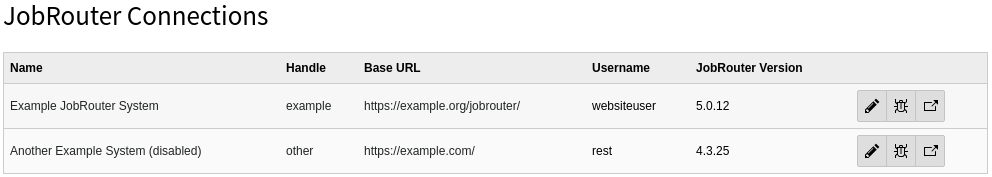
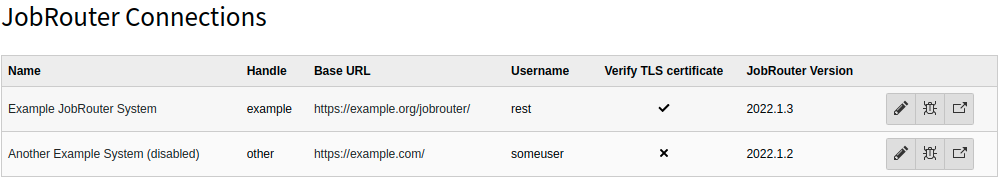
[FEATURE] Add configuration of connection options
Resolves: #8

diff --git a/Resources/Private/Templates/Backend/List.html b/Resources/Private/Templates/Backend/List.html
@@ -47,6 +47,7 @@
                     <th scope="col"><f:translate key="LLL:EXT:jobrouter_connector/Resources/Private/Language/Database.xlf:tx_jobrouterconnector_domain_model_connection.handle"/></th>
                     <th scope="col"><f:translate key="LLL:EXT:jobrouter_connector/Resources/Private/Language/Database.xlf:tx_jobrouterconnector_domain_model_connection.base_url"/></th>
                     <th scope="col"><f:translate key="LLL:EXT:jobrouter_connector/Resources/Private/Language/Database.xlf:tx_jobrouterconnector_domain_model_connection.username"/></th>
+                    <th scope="col" class="text-center"><f:translate key="LLL:EXT:jobrouter_connector/Resources/Private/Language/Database.xlf:tx_jobrouterconnector_domain_model_connection.verify"/></th>
                     <th scope="col"><f:translate key="LLL:EXT:jobrouter_connector/Resources/Private/Language/Database.xlf:tx_jobrouterconnector_domain_model_connection.jobrouter_version"/></th>
                     <th scope="col"></th>
                 </tr>
@@ -65,6 +66,12 @@
                         <td id="jobrouter-connection-list-handle-{connection.uid}">{connection.handle}</td>
                         <td id="jobrouter-connection-list-baseurl-{connection.uid}"><f:link.external uri="{connection.baseUrl}" target="_blank" title="{f:translate(key: 'LLL:EXT:jobrouter_connector/Resources/Private/Language/BackendModule.xlf:action.open_jobrouter_system')}" rel="noreferrer">{connection.baseUrl}</f:link.external></td>
                         <td id="jobrouter-connection-list-username-{connection.uid}">{connection.username}</td>
+                        <td id="jobrouter-connection-list-verify-{connection.uid}" class="text-center">
+                            <f:if condition="{connection.verify}">
+                                <f:then><core:icon identifier="actions-check"/></f:then>
+                                <f:else><core:icon identifier="actions-close"/></f:else>
+                            </f:if>
+                        </td>
                         <td id="jobrouter-connection-list-version-{connection.uid}">{connection.jobrouterVersion}</td>
                         <td>
                             <div class="btn-group">

diff --git a/Configuration/TCA/tx_jobrouterconnector_domain_model_connection.php b/Configuration/TCA/tx_jobrouterconnector_domain_model_connection.php
@@ -84,6 +84,48 @@ return [
                 'eval' => 'nospace,password,required,' . \Brotkrueml\JobRouterConnector\Evaluation\Password::class,
             ],
         ],
+        'timeout' => [
+            'label' => \Brotkrueml\JobRouterConnector\Extension::LANGUAGE_PATH_DATABASE . ':tx_jobrouterconnector_domain_model_connection.timeout',
+            'config' => [
+                'type' => 'input',
+                'size' => 5,
+                'eval' => 'trim,int',
+                'range' => [
+                    'lower' => 0,
+                    'upper' => 240,
+                ],
+                'default' => 0,
+                'slider' => [
+                    'step' => 10,
+                    'width' => 200,
+                ],
+            ],
+        ],
+        'verify' => [
+            'label' => \Brotkrueml\JobRouterConnector\Extension::LANGUAGE_PATH_DATABASE . ':tx_jobrouterconnector_domain_model_connection.verify',
+            'config' => [
+                'type' => 'check',
+                'renderType' => 'checkboxToggle',
+                'items' => [
+                    [
+                        0 => '',
+                        1 => '',
+                        'labelChecked' => 'Enabled',
+                        'labelUnchecked' => 'Disabled',
+                    ],
+                ],
+                'default' => 1,
+            ],
+        ],
+        'proxy' => [
+            'label' => \Brotkrueml\JobRouterConnector\Extension::LANGUAGE_PATH_DATABASE . ':tx_jobrouterconnector_domain_model_connection.proxy',
+            'config' => [
+                'type' => 'input',
+                'size' => 30,
+                'max' => 255,
+                'eval' => 'trim',
+            ],
+        ],
         'jobrouter_version' => [
             'label' => \Brotkrueml\JobRouterConnector\Extension::LANGUAGE_PATH_DATABASE . ':tx_jobrouterconnector_domain_model_connection.jobrouter_version',
             'description' => \Brotkrueml\JobRouterConnector\Extension::LANGUAGE_PATH_DATABASE . ':tx_jobrouterconnector_domain_model_connection.jobrouter_version.description',
@@ -108,6 +150,7 @@ return [
             'showitem' => '
                 name, handle, base_url,
                 --palette--;;credentials,
+                --palette--;;options,
                 --div--;' . \Brotkrueml\JobRouterConnector\Extension::LANGUAGE_PATH_DATABASE . ':tab.information,
                 jobrouter_version,
                 --div--;LLL:EXT:core/Resources/Private/Language/Form/locallang_tabs.xlf:access,
@@ -121,6 +164,10 @@ return [
         'credentials' => [
             'label' => \Brotkrueml\JobRouterConnector\Extension::LANGUAGE_PATH_DATABASE . ':palette.credentials',
             'showitem' => 'username, password',
+        ],
+        'options' => [
+            'label' => \Brotkrueml\JobRouterConnector\Extension::LANGUAGE_PATH_DATABASE . ':palette.options',
+            'showitem' => 'timeout, verify, --linebreak--, proxy',
         ],
     ],
 ];

diff --git a/Tests/Unit/Domain/Model/ConnectionTest.php b/Tests/Unit/Domain/Model/ConnectionTest.php
@@ -136,6 +136,72 @@ class ConnectionTest extends TestCase
     /**
      * @test
      */
+    public function initialTimeoutIsZero(): void
+    {
+        $actual = $this->subject->getTimeout();
+
+        self::assertSame(0, $actual);
+    }
+
+    /**
+     * @test
+     */
+    public function setAndGetTimeout(): void
+    {
+        $this->subject->setTimeout(42);
+
+        $actual = $this->subject->getTimeout();
+
+        self::assertSame(42, $actual);
+    }
+
+    /**
+     * @test
+     */
+    public function initialVerifyIsTrue(): void
+    {
+        $actual = $this->subject->isVerify();
+
+        self::assertTrue($actual);
+    }
+
+    /**
+     * @test
+     */
+    public function setAndIsVerify(): void
+    {
+        $this->subject->setVerify(false);
+
+        $actual = $this->subject->isVerify();
+
+        self::assertFalse($actual);
+    }
+
+    /**
+     * @test
+     */
+    public function initialProxyIsEmptyString(): void
+    {
+        $actual = $this->subject->getProxy();
+
+        self::assertSame('', $actual);
+    }
+
+    /**
+     * @test
+     */
+    public function setAndGetProxy(): void
+    {
+        $this->subject->setProxy('https://example.org/');
+
+        $actual = $this->subject->getProxy();
+
+        self::assertSame('https://example.org/', $actual);
+    }
+
+    /**
+     * @test
+     */
     public function initialDisabledIsFalse(): void
     {
         $actual = $this->subject->isDisabled();

diff --git a/Tests/Acceptance/Backend/ConnectionsModuleCest.php b/Tests/Acceptance/Backend/ConnectionsModuleCest.php
@@ -76,6 +76,24 @@ class ConnectionsModuleCest
         $I->canSee('some_connection_handle', '#jobrouter-connection-list-handle-1');
         $I->canSee('https://example.org/', '#jobrouter-connection-list-baseurl-1');
         $I->canSee('john.doe', '#jobrouter-connection-list-username-1');
+        $I->canSeeInSource('actions.svg#actions-check', '#jobrouter-connection-list-verify-1');
+    }
+
+    public function whenConnectionIsAvailableWithVerifySetToFalseItIsShownOnTheModulePage(BackendTester $I): void
+    {
+        $I->createJobRouterKey();
+        $I->importConnectionFixture('https://example.org/', 'secretPwd', 0);
+
+        $I->click(self::CONNECTOR_MODULE_SELECTOR);
+        $I->switchToContentFrame();
+        $I->canSee('JobRouter Connections', 'h1');
+
+        $I->canSeeElement('#jobrouter-connection-list');
+        $I->canSee('Some JobRouter Connection Name', '#jobrouter-connection-list-name-1');
+        $I->canSee('some_connection_handle', '#jobrouter-connection-list-handle-1');
+        $I->canSee('https://example.org/', '#jobrouter-connection-list-baseurl-1');
+        $I->canSee('john.doe', '#jobrouter-connection-list-username-1');
+        $I->canSeeInSource('actions.svg#actions-close', '#jobrouter-connection-list-verify-1');
     }
 
     public function whenConnectionIsAvailableAClickOnTheNameLinkOpensToEditForm(BackendTester $I): void

diff --git a/Classes/Domain/Model/Connection.php b/Classes/Domain/Model/Connection.php
@@ -20,6 +20,9 @@ final class Connection extends AbstractEntity
     protected string $baseUrl = '';
     protected string $username = '';
     protected string $password = '';
+    protected int $timeout = 0;
+    protected bool $verify = true;
+    protected string $proxy = '';
     protected string $jobrouterVersion = '';
     protected bool $disabled = false;
 
@@ -71,6 +74,36 @@ final class Connection extends AbstractEntity
     public function setPassword(string $password): void
     {
         $this->password = $password;
+    }
+
+    public function getTimeout(): int
+    {
+        return $this->timeout;
+    }
+
+    public function setTimeout(int $timeout): void
+    {
+        $this->timeout = $timeout;
+    }
+
+    public function isVerify(): bool
+    {
+        return $this->verify;
+    }
+
+    public function setVerify(bool $verify): void
+    {
+        $this->verify = $verify;
+    }
+
+    public function getProxy(): string
+    {
+        return $this->proxy;
+    }
+
+    public function setProxy(string $proxy): void
+    {
+        $this->proxy = $proxy;
     }
 
     public function getJobrouterVersion(): string

diff --git a/Classes/RestClient/RestClientFactory.php b/Classes/RestClient/RestClientFactory.php
@@ -14,6 +14,7 @@ namespace Brotkrueml\JobRouterConnector\RestClient;
 use Brotkrueml\JobRouterClient\Client\ClientInterface;
 use Brotkrueml\JobRouterClient\Client\RestClient;
 use Brotkrueml\JobRouterClient\Configuration\ClientConfiguration;
+use Brotkrueml\JobRouterClient\Configuration\ClientOptions;
 use Brotkrueml\JobRouterClient\Exception\ExceptionInterface;
 use Brotkrueml\JobRouterConnector\Domain\Model\Connection;
 use Brotkrueml\JobRouterConnector\Domain\Repository\ConnectionRepository;
@@ -69,6 +70,10 @@ final class RestClientFactory implements RestClientFactoryInterface
         );
 
         $configuration = $configuration->withUserAgentAddition($userAgentAddition ?? $this->getUserAgentAddition());
+
+        $configuration = $configuration->withClientOptions(
+            new ClientOptions(false, 5, $connection->getTimeout(), $connection->isVerify(), $connection->getProxy())
+        );
 
         if ($lifetime) {
             $configuration = $configuration->withLifetime($lifetime);

diff --git a/Tests/Acceptance/Support/Extension/ConnectionActions.php b/Tests/Acceptance/Support/Extension/ConnectionActions.php
@@ -46,7 +46,7 @@ trait ConnectionActions
         $connection->truncate('tx_jobrouterconnector_domain_model_connection');
     }
 
-    public function importConnectionFixture(string $baseUrl, string $password): void
+    public function importConnectionFixture(string $baseUrl, string $password, int $verify = 1): void
     {
         $encryptedPassword = (new Crypt(new FileService()))->encrypt($password);
 
@@ -64,6 +64,9 @@ trait ConnectionActions
         <base_url>${baseUrl}</base_url>
         <username>john.doe</username>
         <password>${encryptedPassword}</password>
+        <timeout>0</timeout>
+        <verify>{$verify}</verify>
+        <proxy></proxy>
         <jobrouter_version></jobrouter_version>
         <description>Some description</description>
 	</tx_jobrouterconnector_domain_model_connection>

diff --git a/Documentation/usage.rst b/Documentation/usage.rst
@@ -82,6 +82,33 @@ Username
 Password
    The password to be used. It will be stored encrypted in the database.
 
+Timeout
+   .. versionadded:: 1.2.0
+
+   The maximum number of seconds to execute a request.
+
+   *Default:* `0`
+
+Verify TLS certificate
+   .. versionadded:: 1.2.0
+
+   The TLS certificate of the JobRouter® installation is checked when
+   connecting.
+
+   *Default:* activated
+
+   .. important::
+      This should only be disabled when connecting to a test or development
+      installation as this introduces security issues.
+
+Proxy URL
+   .. versionadded:: 1.2.0
+
+   Enter the URL when connecting through a proxy to the JobRouter® installation.
+
+   *Default:* (empty)
+
+
 Information
 -----------
 

diff --git a/Documentation/changelog.rst b/Documentation/changelog.rst
@@ -11,6 +11,12 @@ and this project adheres to `Semantic Versioning <https://semver.org/spec/v2.0.0
 `Unreleased <https://github.com/brotkrueml/typo3-jobrouter-connector/compare/v1.1.0...HEAD>`_
 -------------------------------------------------------------------------------------------------
 
+Added
+^^^^^
+
+
+* Configuration of connection options (#8)
+
 Removed
 ^^^^^^^
 

diff --git a/CHANGELOG.md b/CHANGELOG.md
@@ -6,6 +6,9 @@ and this project adheres to [Semantic Versioning](https://semver.org/spec/v2.0.0
 
 ## [Unreleased]
 
+### Added
+- Configuration of connection options (#8)
+
 ### Removed
 - Compatibility with PHP 7.3
 
